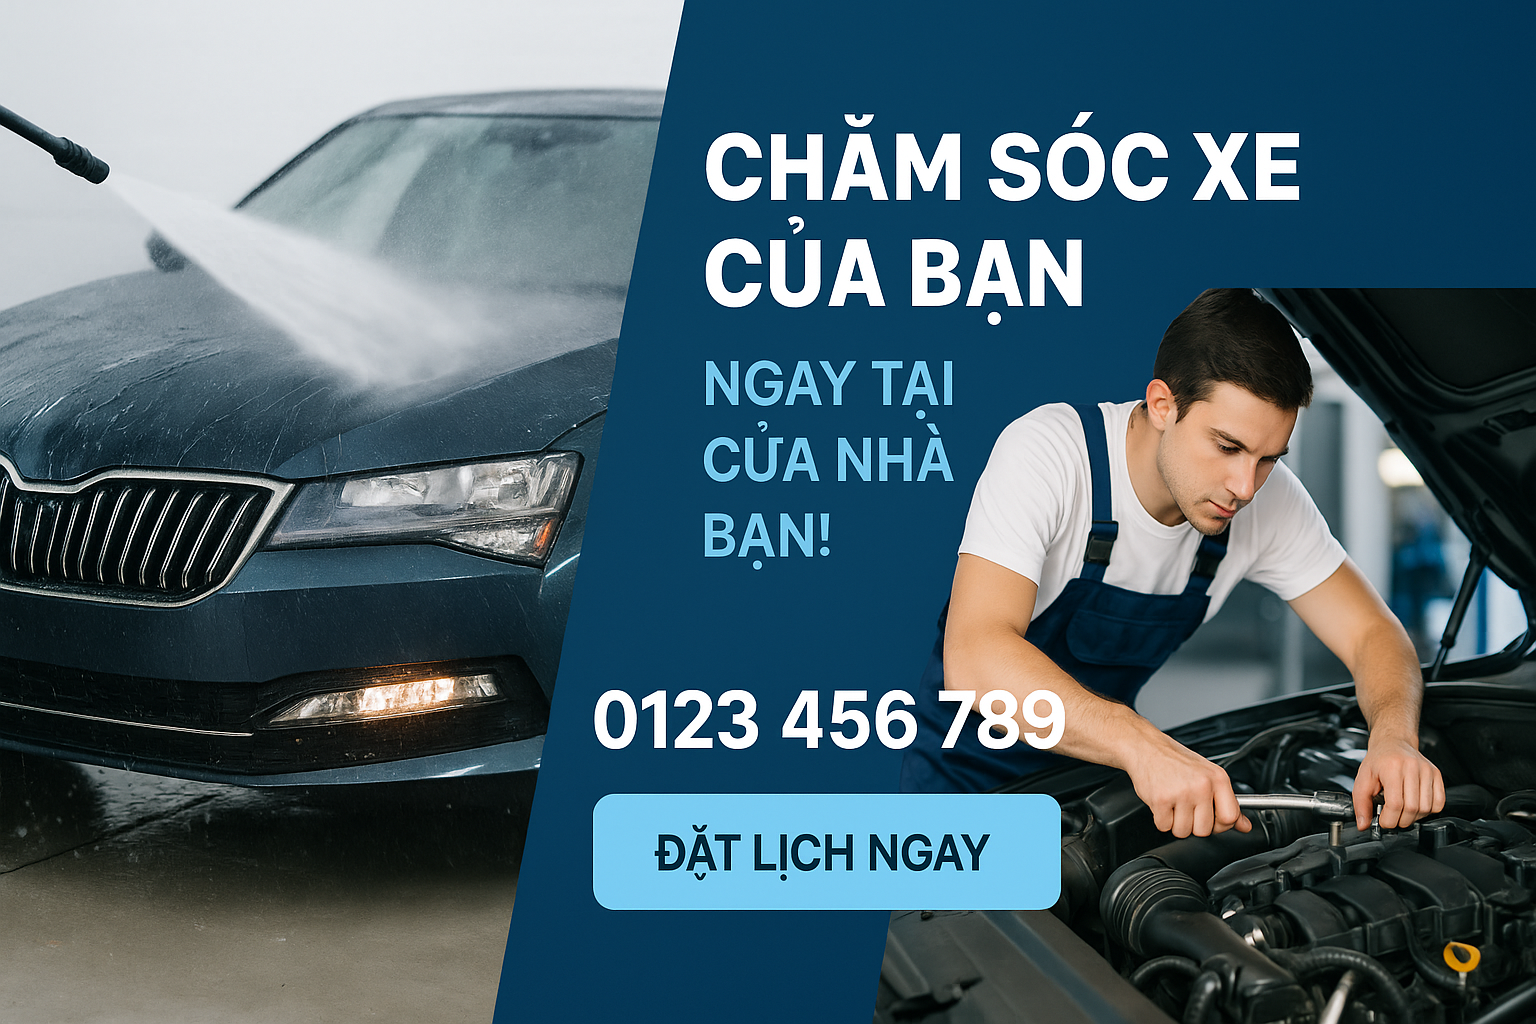
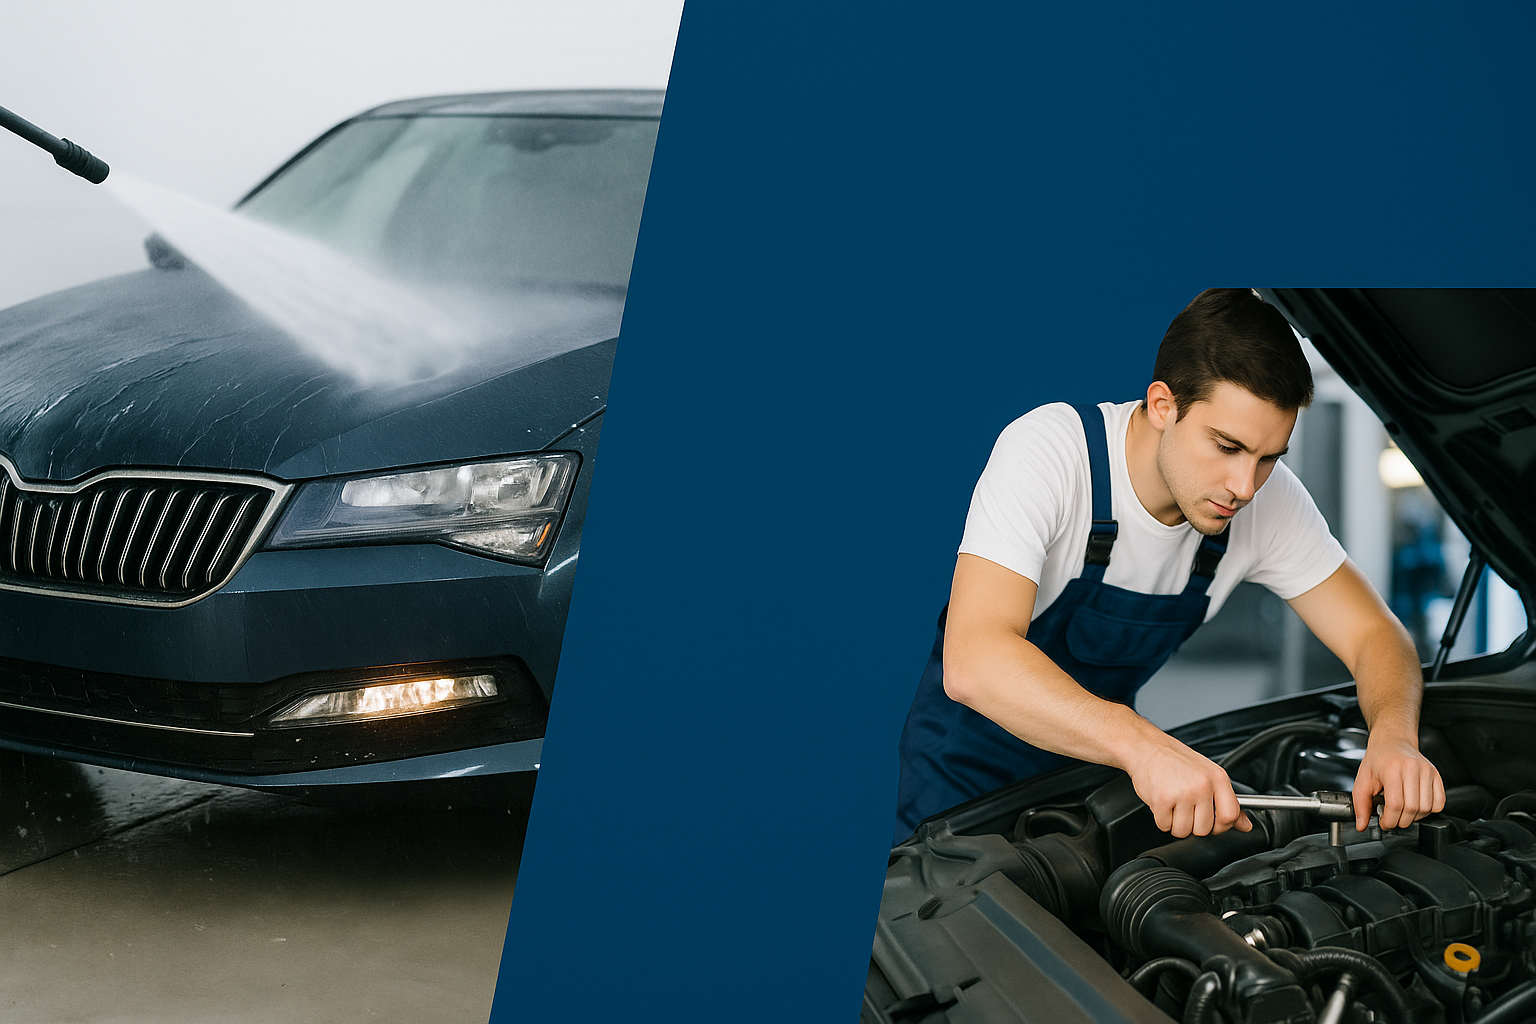
chỉnh sửa link ảnh slogan

diff --git a/assets/css/index.css b/assets/css/index.css
@@ -88,7 +88,7 @@ header img {
     display: flex;
     align-items: center;
     justify-content: center;
-    background-image: url('../img-index/banner-bg.jpg'); /* Example: Add a subtle background image if desired */
+    background-image: url('../images/slogan.png'); /* Example: Add a subtle background image if desired */
     background-size: cover;
     background-position: center;
     position: relative;
